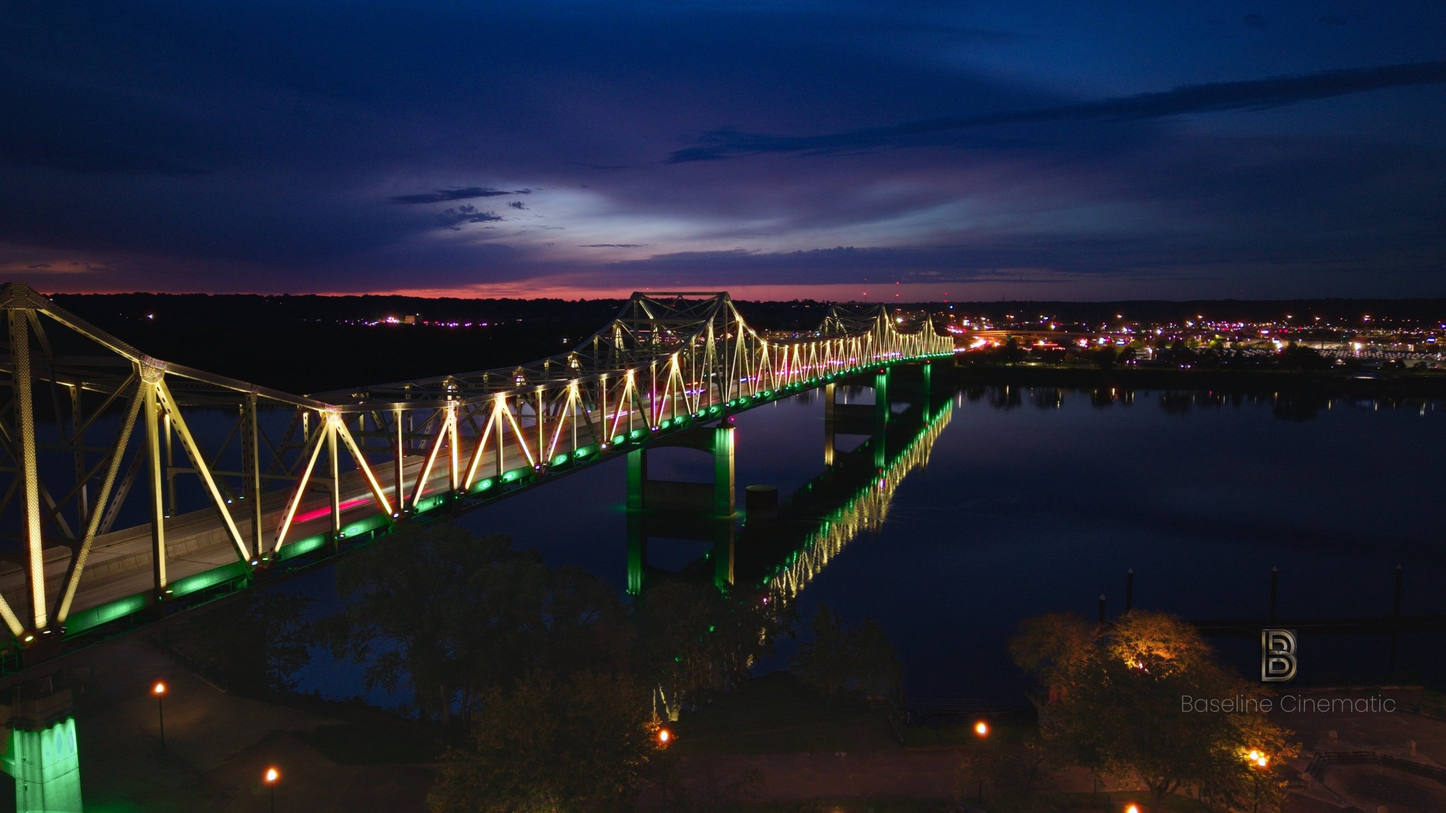
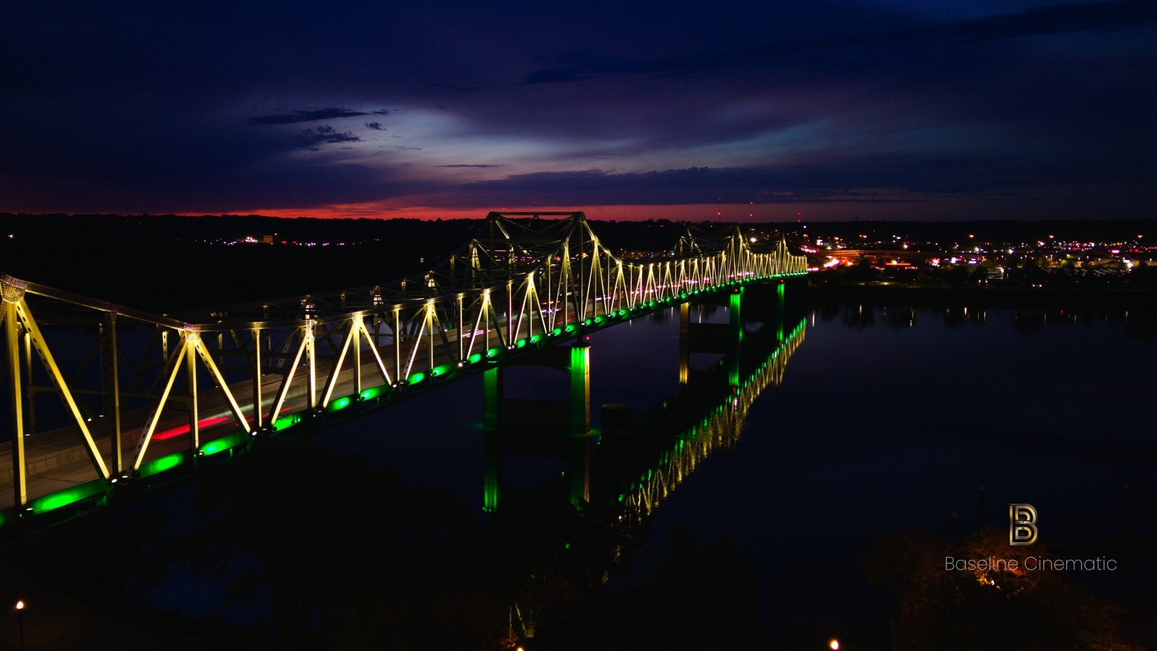
Rebuild before/after grade slider with new aligned bridge pair
Claude-Session: https://claude.ai/code/session_01PQGXWjD7Nz993Rj5sRhsWx

diff --git a/index.html b/index.html
@@ -382,90 +382,6 @@
         }
 
         /* Image Slider Section */
-        .slider-wrapper {
-            position: relative;
-            width: 100%;
-            max-width: 900px;
-            margin: 0 auto;
-            aspect-ratio: 16 / 9;
-            overflow: hidden;
-            border-radius: 8px;
-            box-shadow: 0 8px 25px rgba(0,0,0,0.8);
-        }
-        .slider-image {
-            position: absolute;
-            top: 0;
-            left: 0;
-            width: 100%;
-            height: 100%;
-            object-fit: cover;
-        }
-        .img-before {
-            clip-path: polygon(0 0, 50% 0, 50% 100%, 0 100%);
-            z-index: 2;
-        }
-        .img-after {
-            z-index: 1;
-        }
-        .slider-input {
-            position: absolute;
-            appearance: none;
-            -webkit-appearance: none;
-            width: 100%;
-            height: 100%;
-            background: transparent;
-            outline: none;
-            margin: 0;
-            top: 0;
-            left: 0;
-            z-index: 10;
-            cursor: pointer;
-        }
-        .slider-input::-webkit-slider-thumb {
-            -webkit-appearance: none;
-            appearance: none;
-            width: 4px;
-            height: 100vh;
-            background: #fff;
-            cursor: ew-resize;
-            box-shadow: 0 0 10px rgba(0,0,0,0.5);
-        }
-        .slider-handle {
-            position: absolute;
-            top: 50%;
-            left: 50%;
-            transform: translate(-50%, -50%);
-            width: 40px;
-            height: 40px;
-            background: #d4af37;
-            border-radius: 50%;
-            z-index: 5;
-            display: flex;
-            align-items: center;
-            justify-content: center;
-            pointer-events: none;
-            color: #000;
-            box-shadow: 0 2px 6px rgba(0,0,0,0.5);
-        }
-        .slider-handle::after {
-            content: '↔';
-            font-size: 20px;
-        }
-        .slider-label {
-            position: absolute;
-            bottom: 20px;
-            padding: 8px 16px;
-            background: rgba(0,0,0,0.7);
-            color: #fff;
-            border-radius: 4px;
-            font-size: 0.9rem;
-            pointer-events: none;
-            z-index: 4;
-            letter-spacing: 1px;
-        }
-        .label-before { left: 20px; }
-        .label-after { right: 20px; }
-        
         /* Buttons & Badges */
         .cert-badge { 
             background: #d4af37; 
@@ -1058,6 +974,19 @@
                 <p>We leverage cutting-edge tools for intelligent upscaling and advanced motion tracking. This ensures your final product looks flawlessly polished and perfectly framed, whether your clients are watching on a smartphone or a 4K display.</p>
             </div>
         </div>
+        <div class="grade-compare fade-in">
+            <h3>Same Shot, Before and After Grading</h3>
+            <p class="gc-intro">Drag the slider. On the left is the flat log footage straight from the camera. On the right is the same frame after color grading.</p>
+            <div class="gc-frame">
+                <img class="gc-after" src="grade-after.jpg" alt="Peoria bridge at dusk after color grading" width="1920" height="1080" loading="lazy">
+                <img class="gc-before" src="grade-before.jpg" alt="Peoria bridge at dusk as shot, before color grading" width="1920" height="1080" loading="lazy">
+                <span class="gc-label l">As shot (log)</span>
+                <span class="gc-label r">Graded</span>
+                <div class="gc-line"></div>
+                <div class="gc-knob" aria-hidden="true">&#8596;</div>
+                <input type="range" min="0" max="100" value="50" aria-label="Drag to compare the ungraded and graded versions of the same shot">
+            </div>
+        </div>
     </section>
 
     <section id="process" class="section-alt">
@@ -1188,19 +1117,6 @@
     </footer>
 
     <script>
-        // --- Color Grading Slider Script ---
-        const slider = document.getElementById('compare-slider');
-        const beforeImage = document.querySelector('.img-before');
-        const sliderHandle = document.querySelector('.slider-handle');
-
-        if(slider) {
-            slider.addEventListener('input', (e) => {
-                const value = e.target.value;
-                beforeImage.style.clipPath = `polygon(0 0, ${value}% 0, ${value}% 100%, 0 100%)`;
-                sliderHandle.style.left = `${value}%`;
-            });
-        }
-
         // --- Scroll Animation Script ---
         const faders = document.querySelectorAll('.fade-in');
 
@@ -1292,6 +1208,7 @@
     <script src="floating-cta.js"></script>
     <script src="service-select.js"></script>
     <script src="quick-form.js"></script>
+    <script src="grade-compare.js" defer></script>
     <script src="gallery-lightbox.js"></script>
 </body>
 </html>

diff --git a/site-ui.css b/site-ui.css
@@ -542,3 +542,24 @@ button:focus-visible {
   .quick-form .btn { width: 100%; }
   .quick-copy h2 { font-size: 1.3rem; }
 }
+
+
+/* 13. Color grade compare slider ------------------------------------- */
+.grade-compare { max-width: 980px; margin: 48px auto 0; padding: 0 16px; }
+.grade-compare h3 { text-align: center; color: #fff; margin: 0 0 8px; }
+.grade-compare .gc-intro { text-align: center; color: #ccc; margin: 0 auto 22px; max-width: 640px; line-height: 1.5; }
+.gc-frame { position: relative; aspect-ratio: 16 / 9; overflow: hidden; border-radius: 10px; background: #000;
+  box-shadow: 0 10px 30px rgba(0,0,0,.7); user-select: none; -webkit-user-select: none; touch-action: pan-y; --pos: 50%; }
+.gc-frame img { position: absolute; inset: 0; width: 100%; height: 100%; object-fit: cover; pointer-events: none; }
+.gc-frame .gc-before { clip-path: inset(0 calc(100% - var(--pos)) 0 0); }
+.gc-line { position: absolute; top: 0; bottom: 0; left: var(--pos); width: 2px; margin-left: -1px; background: rgba(255,255,255,.9);
+  box-shadow: 0 0 8px rgba(0,0,0,.6); pointer-events: none; }
+.gc-knob { position: absolute; top: 50%; left: var(--pos); width: 44px; height: 44px; margin: -22px 0 0 -22px; border-radius: 50%;
+  background: #d4af37; color: #000; display: flex; align-items: center; justify-content: center; font-size: 20px; font-weight: 700;
+  box-shadow: 0 2px 8px rgba(0,0,0,.6); pointer-events: none; }
+.gc-label { position: absolute; bottom: 14px; padding: 6px 12px; background: rgba(0,0,0,.72); color: #fff; border-radius: 4px;
+  font-size: .78rem; letter-spacing: 1px; text-transform: uppercase; pointer-events: none; }
+.gc-label.l { left: 14px; } .gc-label.r { right: 14px; }
+.gc-frame input[type=range] { position: absolute; inset: 0; width: 100%; height: 100%; margin: 0; opacity: 0; cursor: ew-resize; touch-action: pan-y; }
+.gc-frame:focus-within .gc-knob { outline: 3px solid #fff; outline-offset: 2px; }
+@media (max-width: 600px) { .gc-label { font-size: .68rem; padding: 5px 9px; bottom: 10px; } .gc-knob { width: 40px; height: 40px; margin: -20px 0 0 -20px; } }

diff --git a/grade-compare.js b/grade-compare.js
@@ -1,0 +1,15 @@
+(function () {
+  var frame = document.querySelector('.gc-frame');
+  if (!frame) return;
+  var input = frame.querySelector('input[type=range]');
+  var used = false;
+  function set(v) { frame.style.setProperty('--pos', v + '%'); }
+  input.addEventListener('input', function () {
+    set(input.value);
+    if (!used) {
+      used = true;
+      try { if (window.gtag) gtag('event', 'grade_slider_used'); } catch (e) {}
+    }
+  });
+  set(input.value);
+})();
